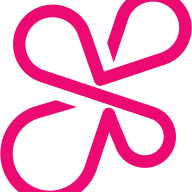
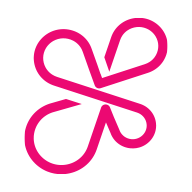
ikonlar

diff --git a/tenant-app/scripts/generate-pwa-icons.js b/tenant-app/scripts/generate-pwa-icons.js
@@ -1,30 +1,32 @@
 /**
- * PWA ikonları: assets/logo-emblem-dark.svg -> icon-192.png, icon-512.png
- * Beyaz arka plan; Sharp ile SVG -> PNG.
+ * PWA ikonları: FLOOVON/favicon içindeki android-chrome-192x192.png ve
+ * android-chrome-512x512.png -> tenant-app/public/icon-192.png, icon-512.png
+ * Yeni ikon kullanacaksan favicon klasöründeki PNG'leri güncelle, sonra bu scripti çalıştır.
  * Çalıştırma: node scripts/generate-pwa-icons.js (tenant-app klasöründen)
  */
+import fs from 'fs';
 import path from 'path';
 import { fileURLToPath } from 'url';
-import sharp from 'sharp';
 
 const __dirname = path.dirname(fileURLToPath(import.meta.url));
 const publicDir = path.join(__dirname, '..', 'public');
-const svgPath = path.join(publicDir, 'assets', 'logo-emblem-dark.svg');
+const faviconDir = path.join(__dirname, '..', '..', 'favicon');
 
-async function main() {
-  try {
-    const sizes = [192, 512];
-    for (const size of sizes) {
-      await sharp(svgPath)
-        .resize(size, size)
-        .flatten({ background: '#ffffff' })
-        .png()
-        .toFile(path.join(publicDir, `icon-${size}.png`));
-      console.log(`icon-${size}.png yazıldı`);
+const files = [
+  { from: 'android-chrome-192x192.png', to: 'icon-192.png' },
+  { from: 'android-chrome-512x512.png', to: 'icon-512.png' },
+];
+
+function main() {
+  for (const { from, to } of files) {
+    const src = path.join(faviconDir, from);
+    const dest = path.join(publicDir, to);
+    if (!fs.existsSync(src)) {
+      console.error(`Bulunamadı: ${src}`);
+      process.exit(1);
     }
-  } catch (e) {
-    console.error('İkon üretilemedi:', e.message);
-    process.exit(1);
+    fs.copyFileSync(src, dest);
+    console.log(`${to} (favicon/${from} kopyalandı)`);
   }
 }
 
